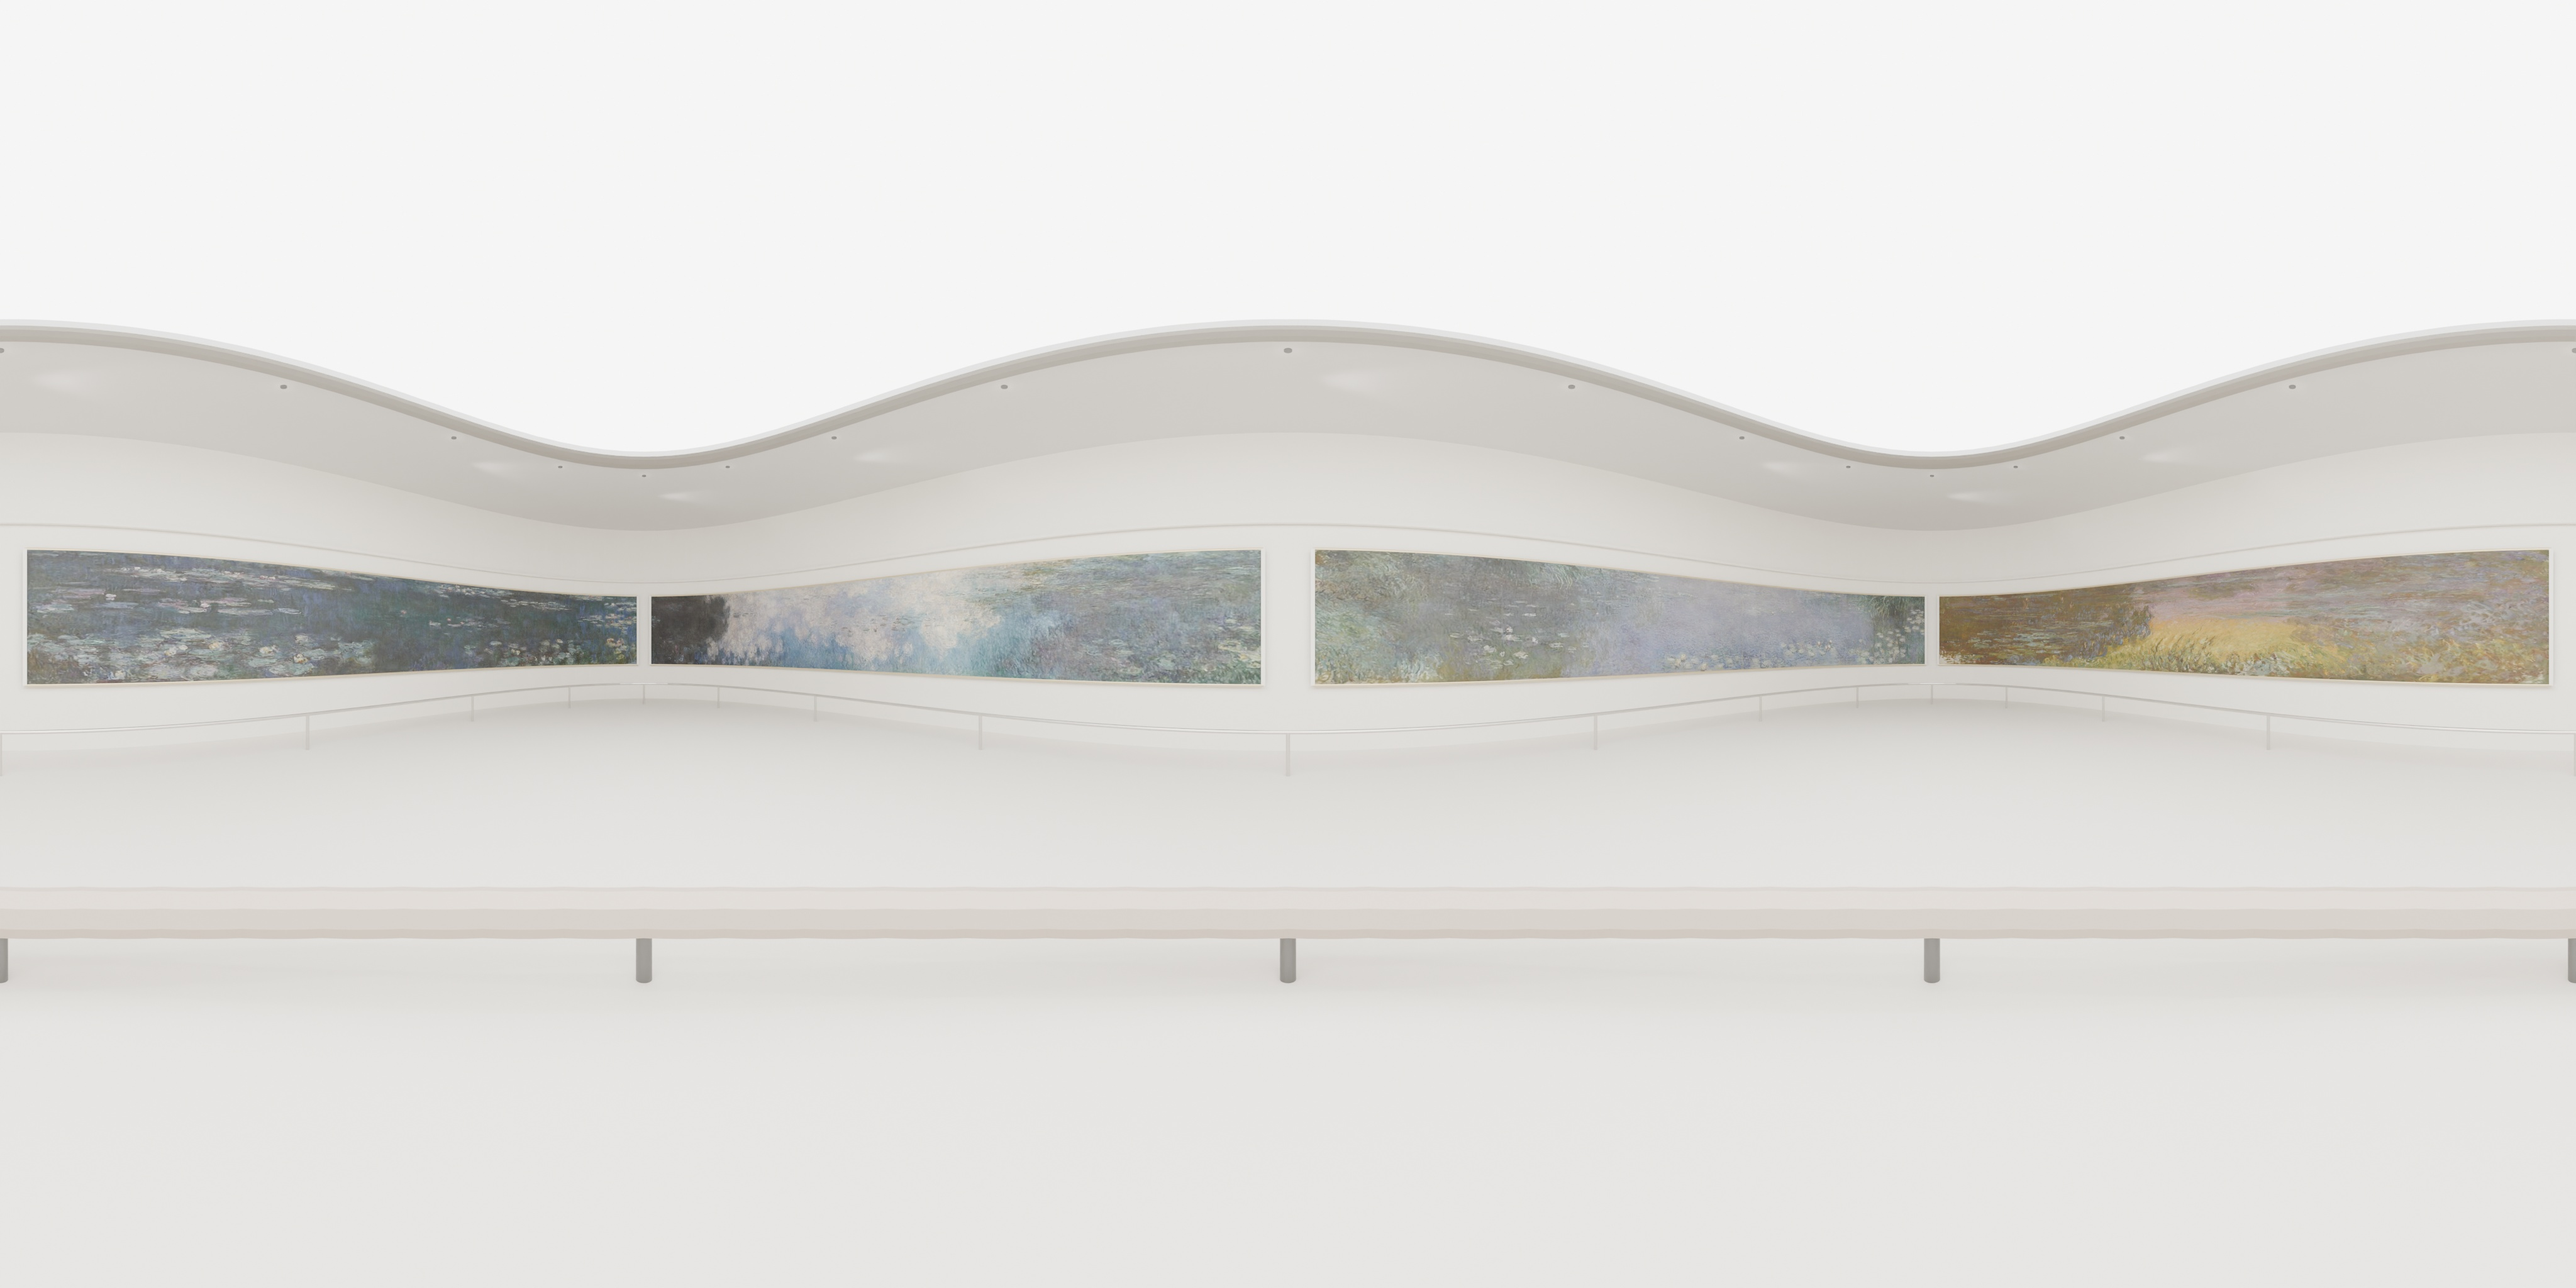
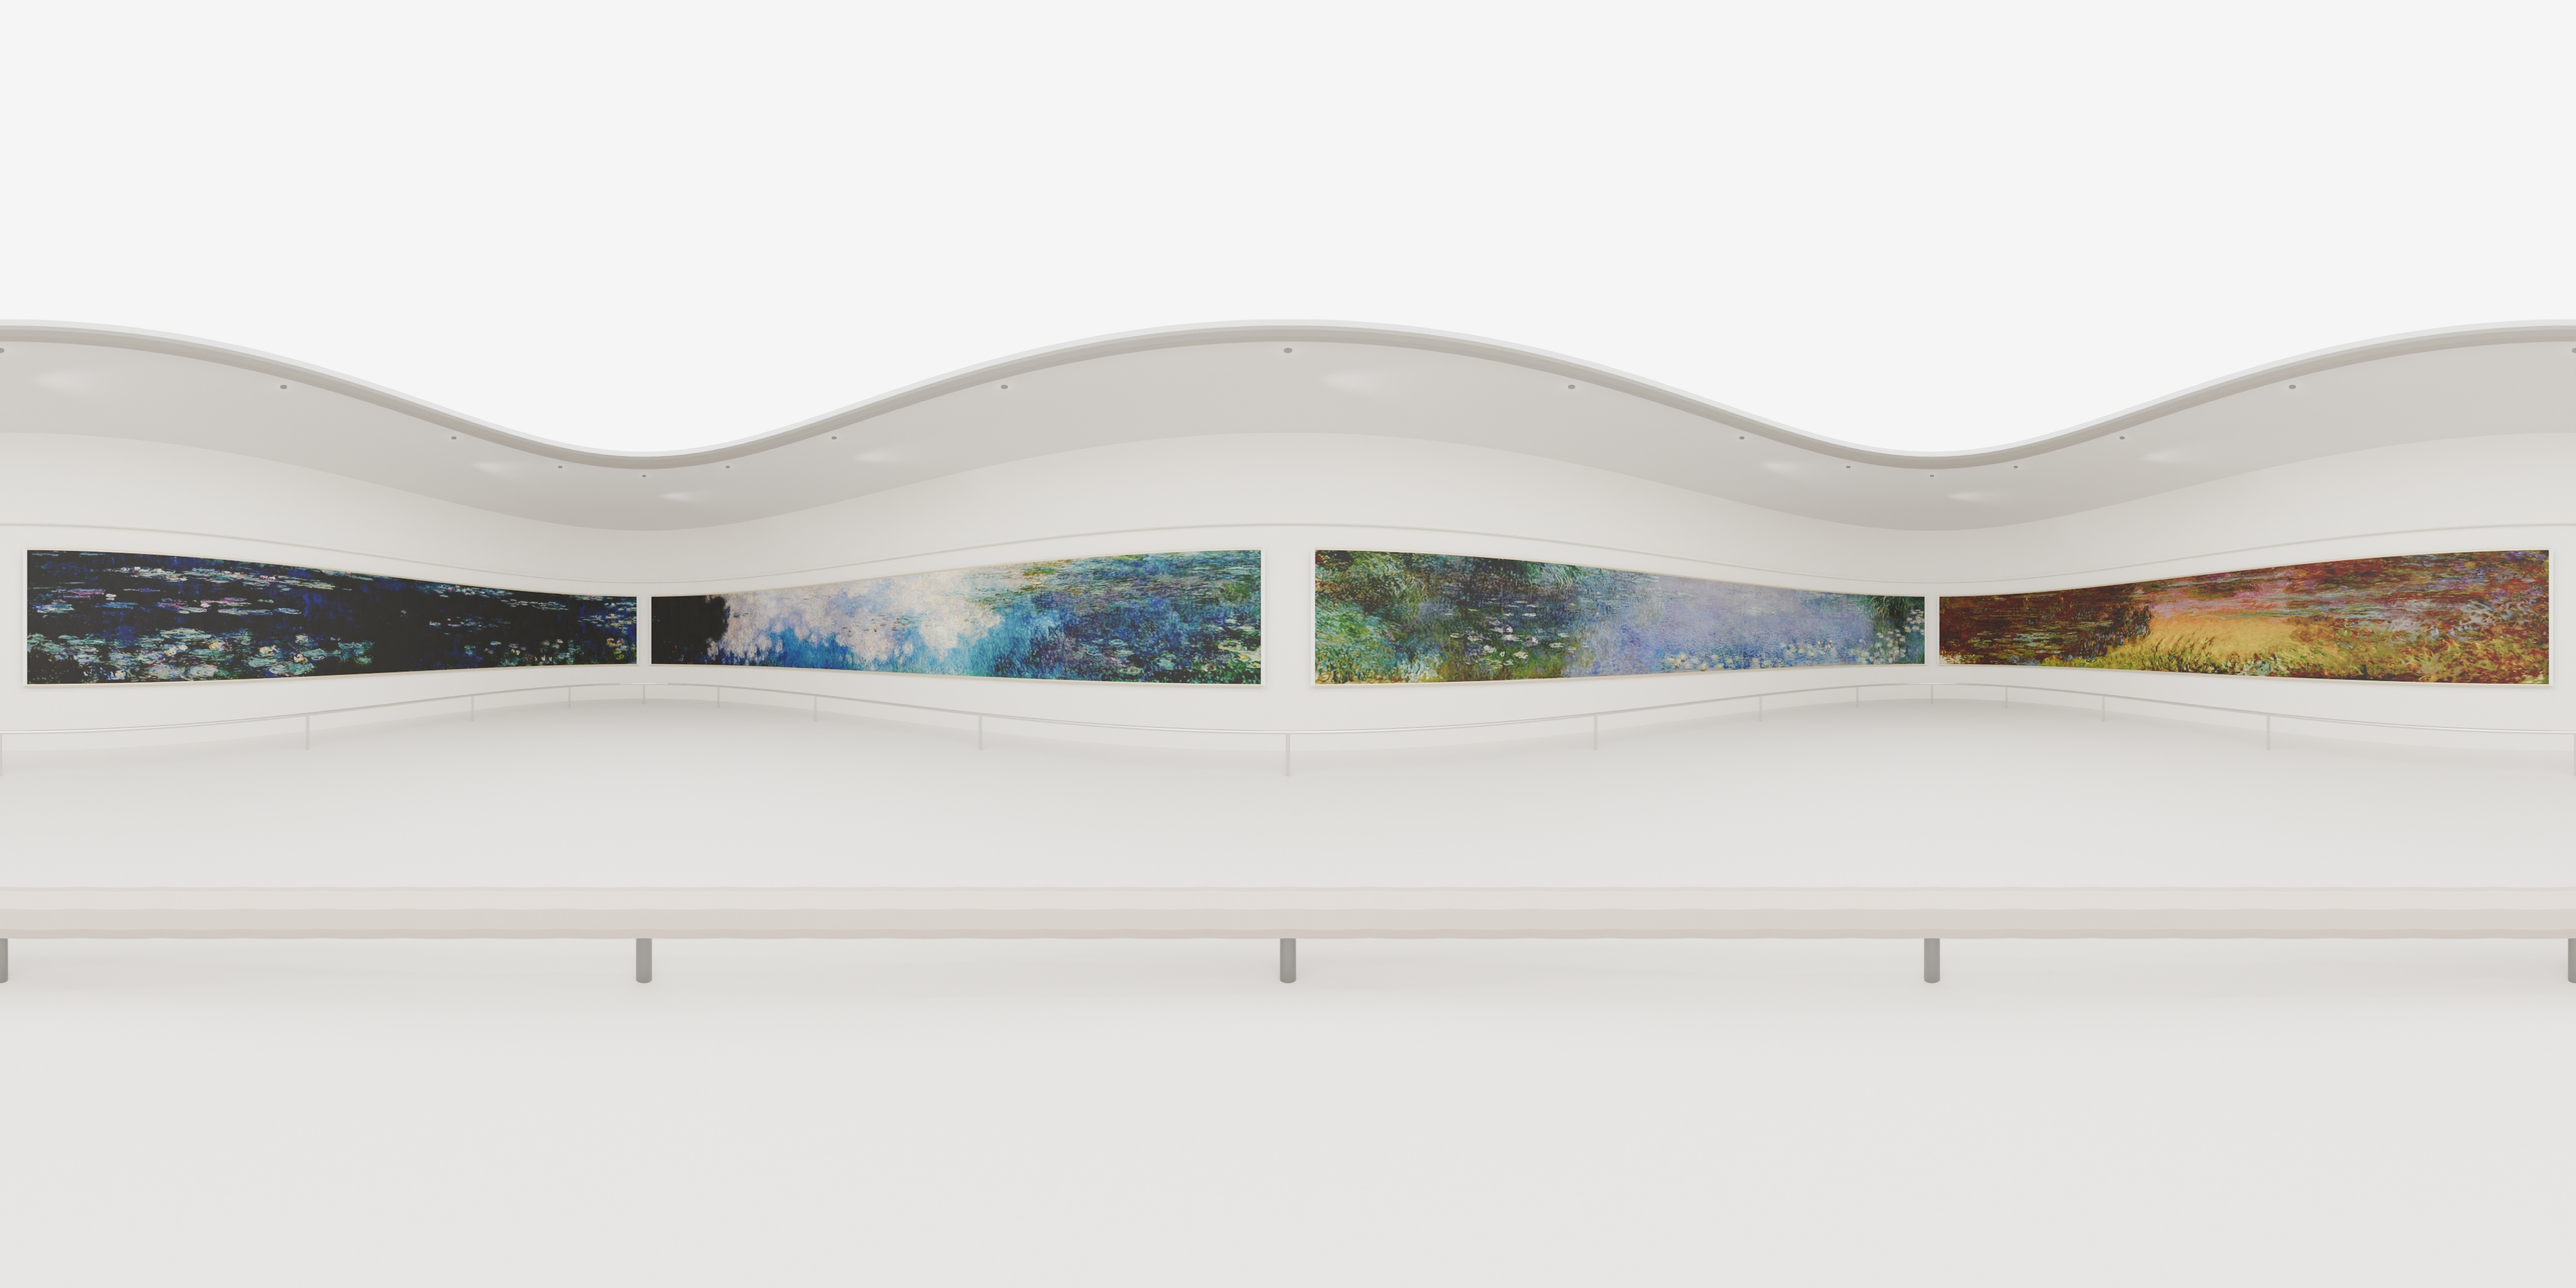
3Dオランジュリー: パノラマ画像更新（実物色彩に近づける） + モネさんぽUI統一

Changed region(s): [[0.0, 0.4062, 1.0, 0.5312]]

diff --git a/web/index.html b/web/index.html
@@ -1,39 +1,26 @@
 <!DOCTYPE html><html lang="ja" translate="no"><head>
-  <!--
-    If you are serving your web app in a path other than the root, change the
-    href value below to reflect the base path you are serving from.
-
-    The path provided below has to start and end with a slash "/" in order for
-    it to work correctly.
-
-    For more details:
-    * https://developer.mozilla.org/en-US/docs/Web/HTML/Element/base
-
-    This is a placeholder for base href that will be replaced by the value of
-    the `--base-href` argument provided to `flutter build`.
-  -->
   <base href="$FLUTTER_BASE_HREF">
 
   <meta charset="UTF-8">
   <meta content="IE=Edge" http-equiv="X-UA-Compatible">
   <meta name="google" content="notranslate">
-  <meta name="description" content="メトロポリタン美術館の名作を光で楽しむインタラクティブギャラリー">
-  <meta name="theme-color" content="#8B0000">
+  <meta name="description" content="モネ全作品を楽しむインタラクティブギャラリー">
+  <meta name="theme-color" content="#5C6BC0">
 
   <!-- iOS meta tags & icons -->
   <meta name="mobile-web-app-capable" content="yes">
   <meta name="apple-mobile-web-app-capable" content="yes">
   <meta name="apple-mobile-web-app-status-bar-style" content="black-translucent">
-  <meta name="apple-mobile-web-app-title" content="メトロポリタン美術館さんぽ">
+  <meta name="apple-mobile-web-app-title" content="モネさんぽ">
   <link rel="apple-touch-icon" href="icons/Icon-192.png">
 
   <!-- Favicon -->
   <link rel="icon" type="image/png" href="favicon.png">
 
-  <title>メトロポリタン美術館さんぽ</title>
+  <title>モネさんぽ</title>
   <link rel="manifest" href="manifest.json">
-  
-  
+
+
   <meta content="width=device-width, initial-scale=1.0, maximum-scale=1.0, user-scalable=no" name="viewport">
   <style id="splash-screen-style">
     html {
@@ -90,7 +77,7 @@
     #splash .splash-accent {
       width: 40px;
       height: 3px;
-      background-color: #8B0000;
+      background-color: #5C6BC0;
       border-radius: 2px;
       margin: 16px 0;
     }
@@ -100,7 +87,7 @@
       width: 24px;
       height: 24px;
       border: 2px solid rgba(255, 255, 255, 0.15);
-      border-top-color: #8B0000;
+      border-top-color: #5C6BC0;
       border-radius: 50%;
       animation: spin 0.8s linear infinite;
     }
@@ -124,21 +111,13 @@
 </head>
 <body>
   <div id="splash" aria-hidden="true">
-    <div class="splash-icon"><svg viewBox="0 0 100 80" fill="none" xmlns="http://www.w3.org/2000/svg"><path d="M50 5L5 30V35H95V30L50 5Z" fill="rgba(255,255,255,0.8)"/><rect x="12" y="38" width="8" height="30" rx="2" fill="rgba(255,255,255,0.6)"/><rect x="28" y="38" width="8" height="30" rx="2" fill="rgba(255,255,255,0.6)"/><rect x="46" y="38" width="8" height="30" rx="2" fill="rgba(255,255,255,0.6)"/><rect x="64" y="38" width="8" height="30" rx="2" fill="rgba(255,255,255,0.6)"/><rect x="80" y="38" width="8" height="30" rx="2" fill="rgba(255,255,255,0.6)"/><rect x="5" y="70" width="90" height="6" rx="2" fill="rgba(255,255,255,0.7)"/></svg></div>
-    <div class="splash-title">メトロポリタン美術館さんぽ</div>
+    <div class="splash-icon" style="font-size:64px;">🌸</div>
+    <div class="splash-title">モネさんぽ</div>
     <div class="splash-accent"></div>
-    <div class="splash-subtitle">Metropolitan Museum Walk</div>
+    <div class="splash-subtitle">Monet Walk — 全作品コレクション</div>
     <div class="splash-loader"></div>
   </div>
-  
-  <!--
-    You can customize the "flutter_bootstrap.js" script.
-    This is useful to provide a custom configuration to the Flutter loader
-    or to give the user feedback during the initialization process.
 
-    For more details:
-    * https://docs.flutter.dev/platform-integration/web/initialization
-  -->
   <script>
     // 古いService Workerのキャッシュをクリア
     if ('serviceWorker' in navigator) {
